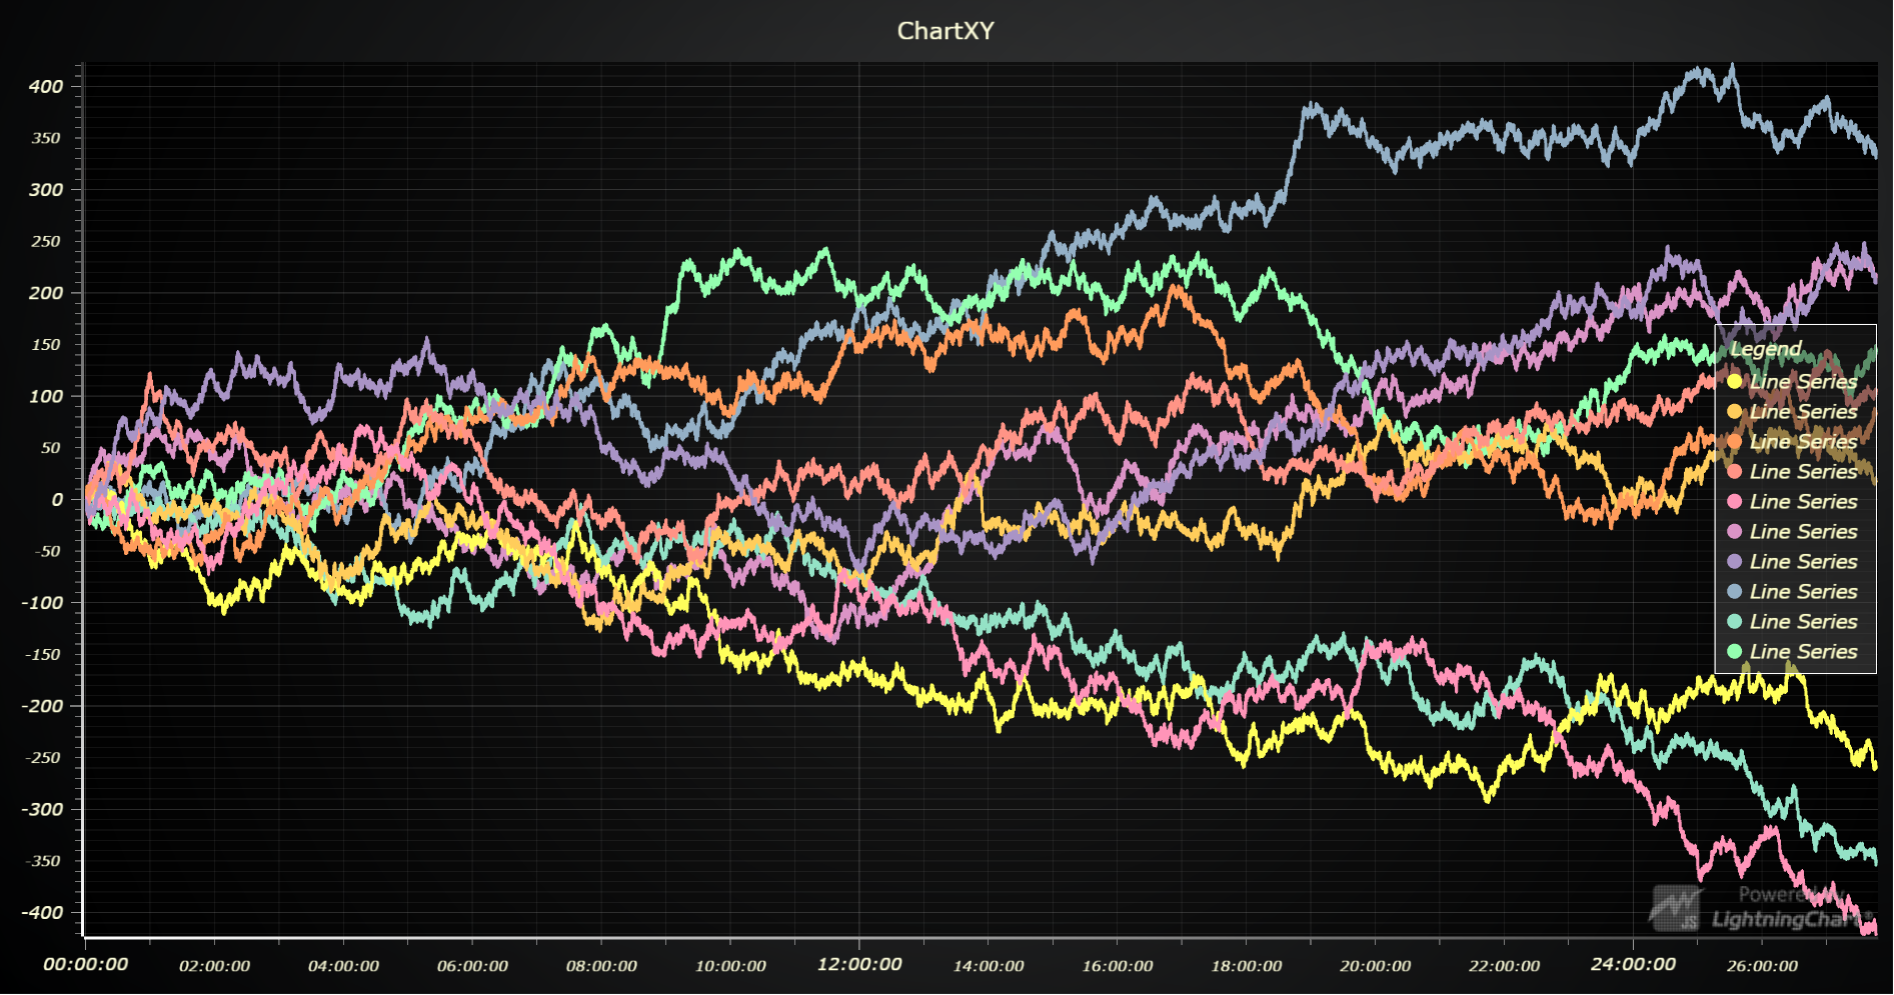
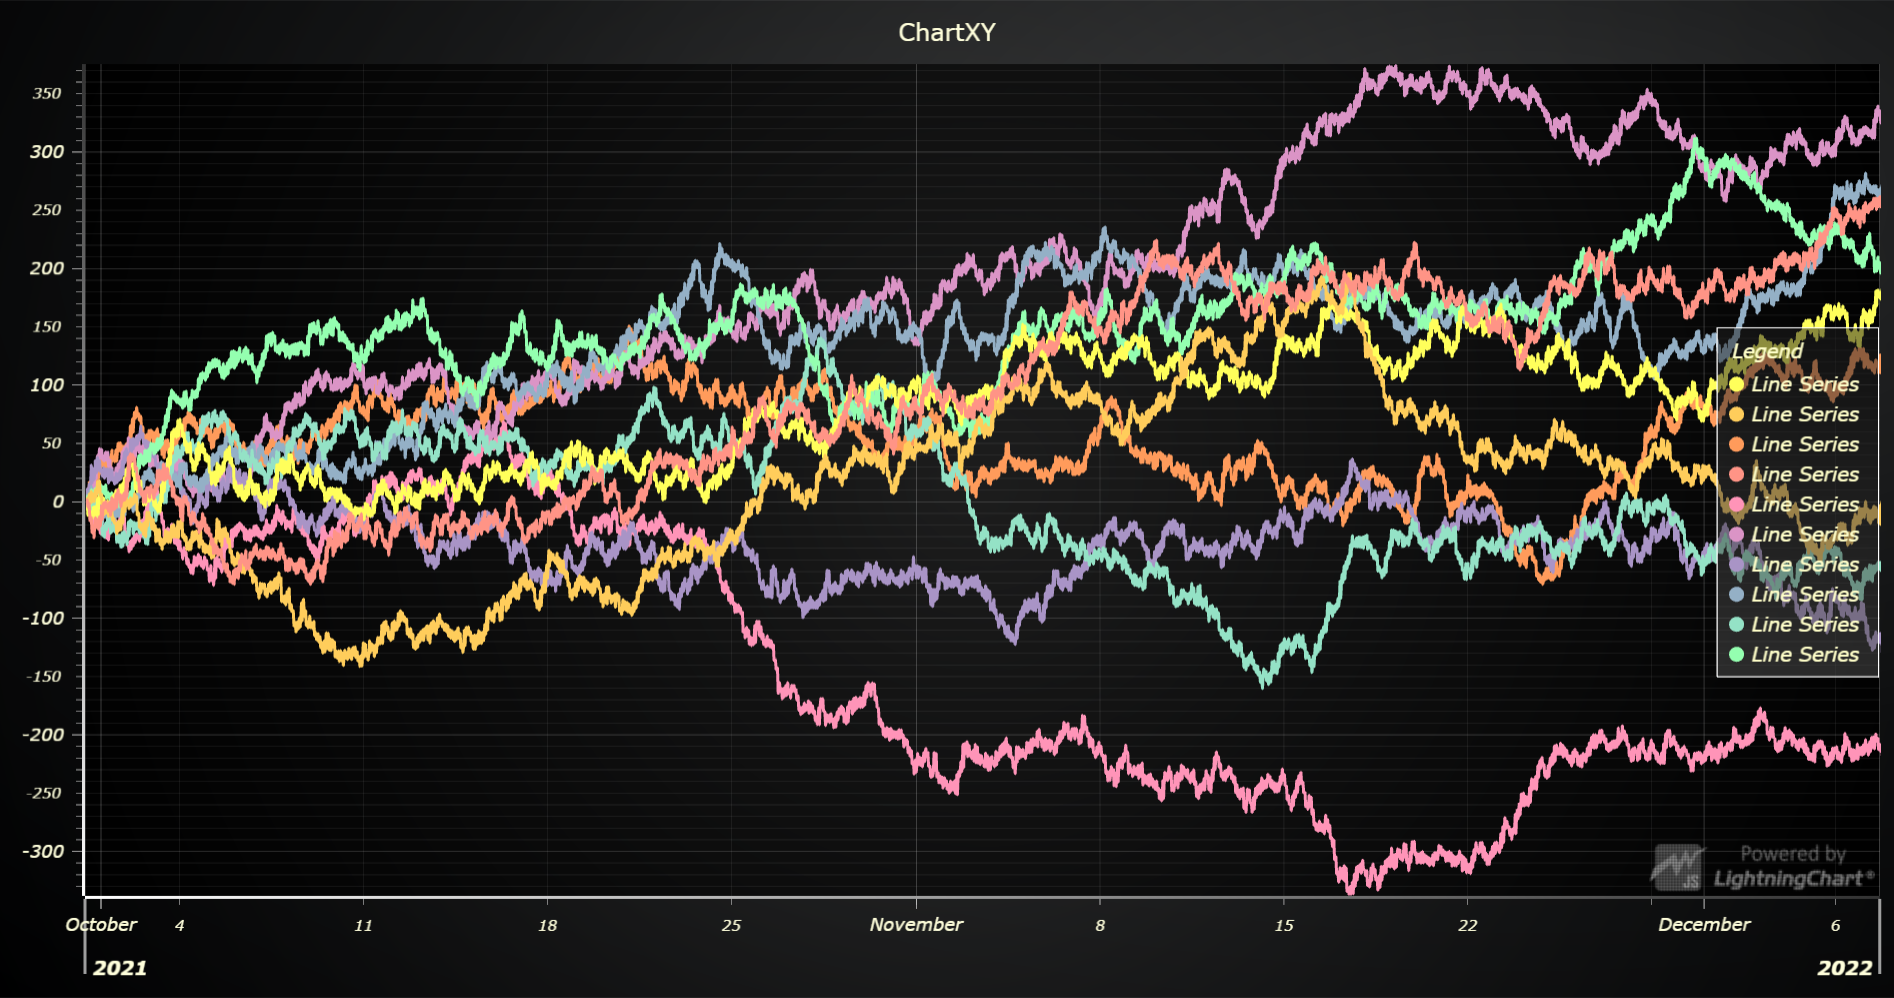
Tweak tutorial 2 apps

diff --git a/tutorial-2/part-2/src/app.ts b/tutorial-2/part-2/src/app.ts
@@ -1,4 +1,4 @@
-import { AxisTickStrategies, ChartXY, emptyFill, lightningChart, SolidLine, synchronizeAxisIntervals } from "@arction/lcjs"
+import { AxisTickStrategies, ChartXY, emptyFill, emptyLine, emptyTick, lightningChart, SolidLine, synchronizeAxisIntervals } from "@arction/lcjs"
 import { createProgressiveTraceGenerator } from '@arction/xydata'
 
 const dashboard = lightningChart().Dashboard({
@@ -30,7 +30,7 @@ for (let iTrend = 0; iTrend < 5; iTrend += 1) {
         .toPromise()
         .then(data => {
             data = data.map(p => ({
-                x: 1000 * p.x,
+                x: Date.now() + 60 * 1000 * p.x,
                 y: p.y,
             }))
 
@@ -40,9 +40,21 @@ for (let iTrend = 0; iTrend < 5; iTrend += 1) {
     chart.setTitleFillStyle(emptyFill)
 
     if (iTrend < 4) {
-        axisX.setTickStrategy(AxisTickStrategies.Empty)
+        axisX.setTickStrategy(AxisTickStrategies.DateTime, ticks => ticks
+            .setGreatTickStyle(emptyTick)
+            .setMajorTickStyle(majorTicks => majorTicks
+                .setLabelFillStyle(emptyFill)
+                .setTickLength(0)
+                .setTickPadding(0)
+            )
+            .setMinorTickStyle(minorTicks => minorTicks
+                .setLabelFillStyle(emptyFill)
+                .setTickLength(0)
+                .setTickPadding(0)
+            )
+        )
     } else {
-        axisX.setTickStrategy(AxisTickStrategies.Time)
+        axisX.setTickStrategy(AxisTickStrategies.DateTime)
     }
 }
 

diff --git a/tutorial-2/part-1/src/app.ts b/tutorial-2/part-1/src/app.ts
@@ -4,8 +4,7 @@ import { createProgressiveTraceGenerator } from '@arction/xydata'
 const chart = lightningChart().ChartXY()
 
 const axisX = chart.getDefaultAxisX()
-    .setTickStrategy(AxisTickStrategies.Time)
-
+    .setTickStrategy(AxisTickStrategies.DateTime)
 
 for (let iTrend = 0; iTrend < 10; iTrend += 1) {
     const series = chart.addLineSeries({
@@ -20,7 +19,7 @@ for (let iTrend = 0; iTrend < 10; iTrend += 1) {
         .toPromise()
         .then(data => {
             data = data.map(p => ({
-                x: 1000 * p.x,
+                x: Date.now() + 60 * 1000 * p.x,
                 y: p.y,
             }))
 
